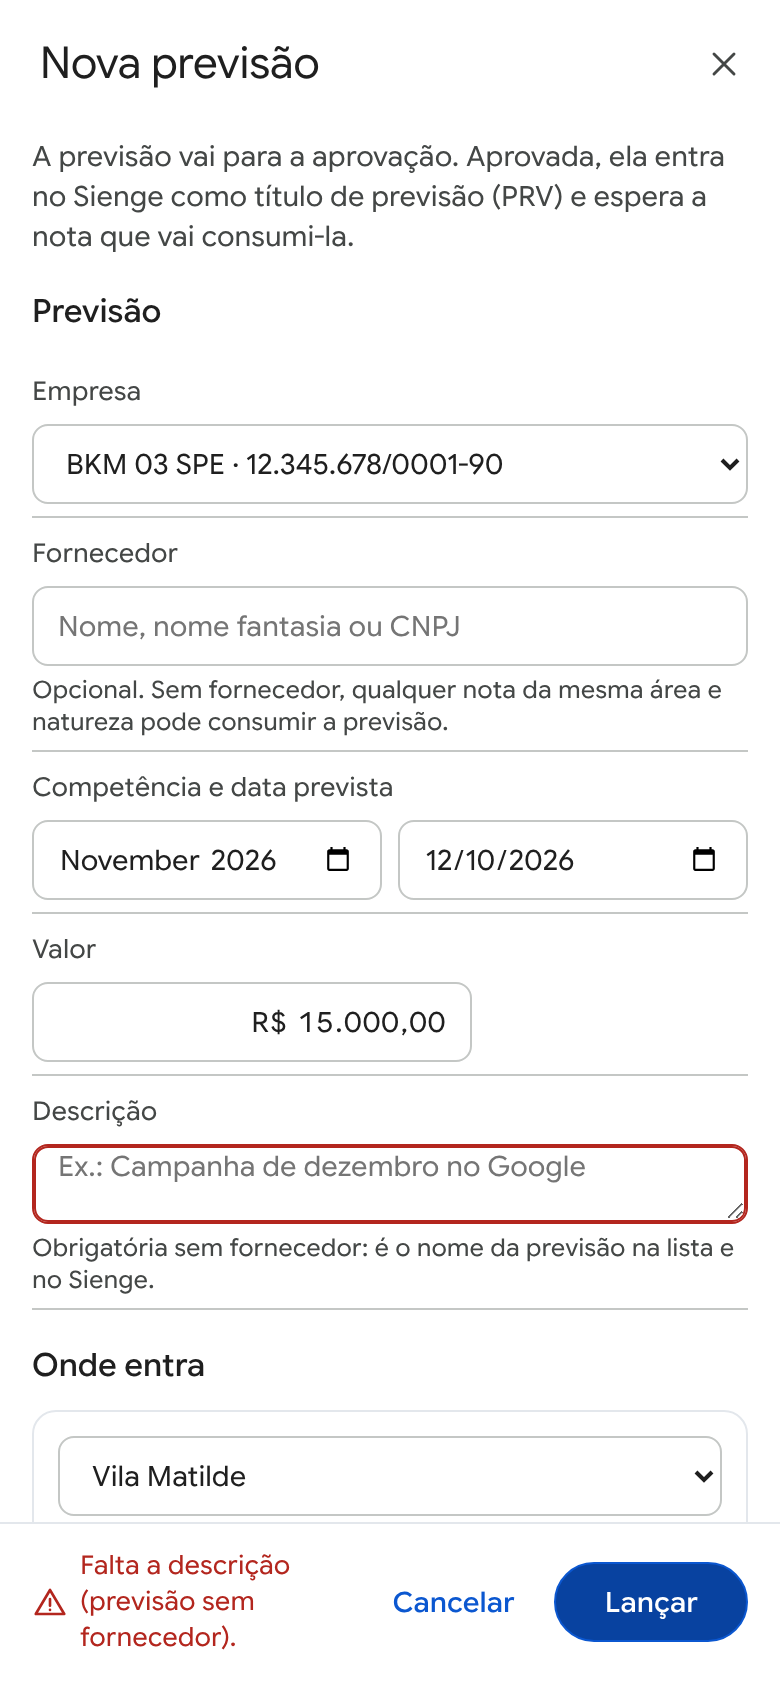
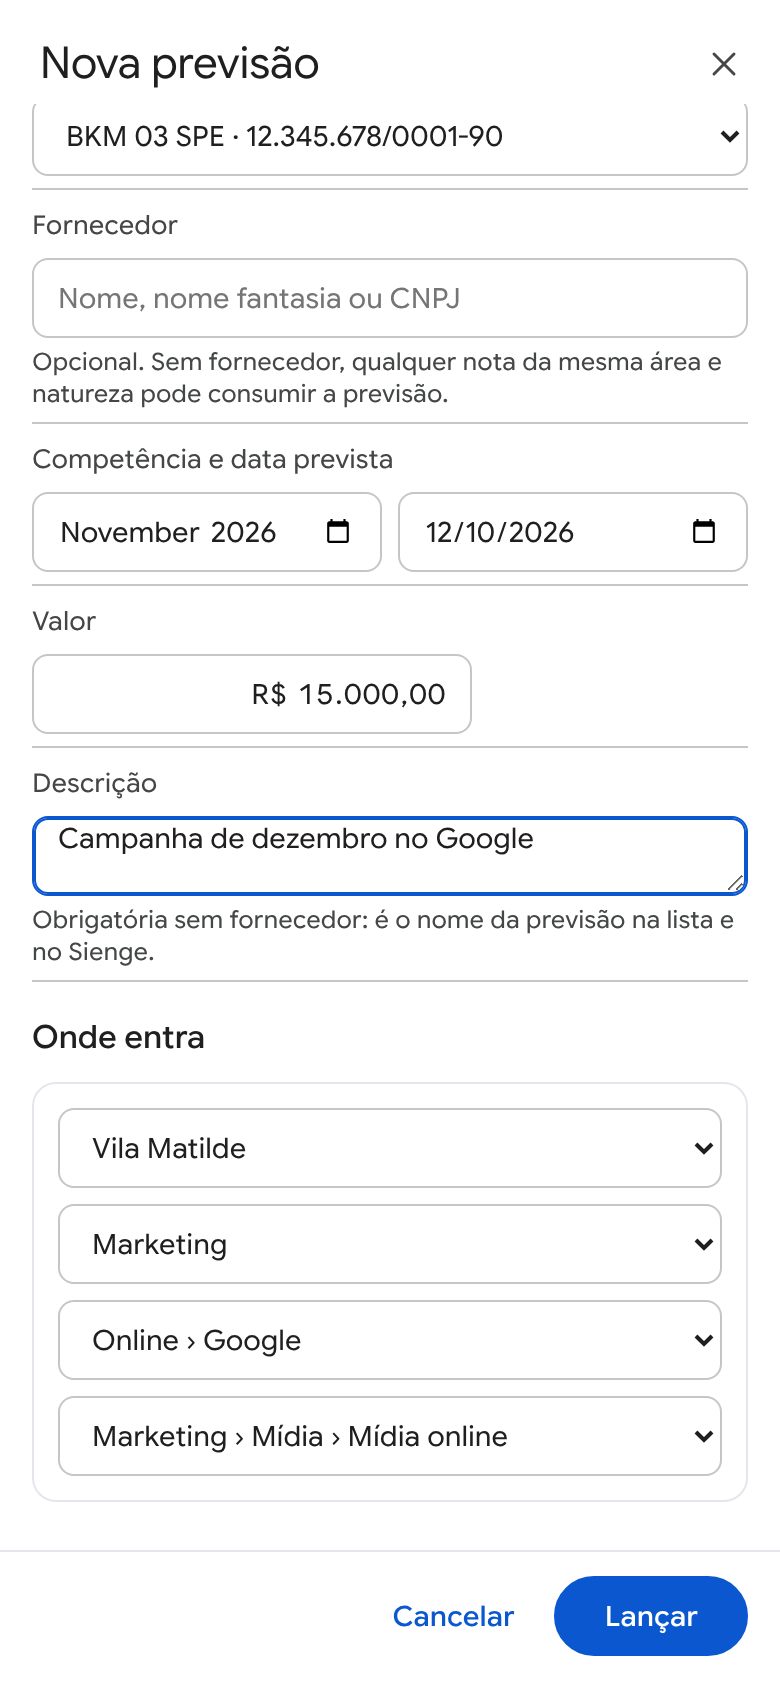
Opções de lançamento pela liberação de quem lança; onde entra sempre à vista na Nova previsão
api.lancamento_opcoes só traz núcleos, centros e divisões em que a pessoa
lança (erp.lanco); vale para Lançar título, Nova conta e Nova previsão.

Claude-Session: https://claude.ai/code/session_01KV2LwSMJajh5KEZr3FLLjq

diff --git a/apps/web/src/pages/NovaPrevisao.tsx b/apps/web/src/pages/NovaPrevisao.tsx
@@ -11,6 +11,8 @@ import { mensagemErro, rpc } from '../lib/supabase';
 import { BuscaFornecedor, Campo, LinhaRateio, divisoesDe, juntar, novaLinha, type Linha } from './Lancar';
 import type { FornecedorBusca, NaturezaLancavel, OpcoesLancamento } from '../lib/tipos';
 
+const SEM_EMPRESA: OpcoesLancamento['empresas'][number] = { id: '', nome: '', razao_social: '', documento: null, nucleos: [] };
+
 export function NovaPrevisao({ fechar, lancada }: { fechar: () => void; lancada: (id: string) => void }) {
   const qc = useQueryClient();
   const op = useQuery({ queryKey: ['lancamento_opcoes'], queryFn: () => rpc<OpcoesLancamento | null>('lancamento_opcoes') });
@@ -28,7 +30,7 @@ export function NovaPrevisao({ fechar, lancada }: { fechar: () => void; lancada:
   useEffect(() => { if (o && !empresa && o.empresas.length === 1) setEmpresa(o.empresas[0].id); }, [o, empresa]);
   const valor = lerReais(valorTxt);
   // a mesma consulta da linha (fica no cache): diz se a natureza escolhida é a restrita do PJ
-  const divs = divisoesDe(o, linha.centro);
+  const divs = divisoesDe(o, linha.centro, emp?.nucleos.find(n => n.id === linha.nucleo));
   const pronta = Boolean(linha.nucleo && linha.centro && (!divs.length || linha.divisao));
   const nq = useQuery({
     queryKey: ['naturezas_lancaveis', linha.nucleo, linha.centro, linha.divisao],
@@ -91,8 +93,11 @@ export function NovaPrevisao({ fechar, lancada }: { fechar: () => void; lancada:
         </div></section>
 
         <section className="lt-sec"><h3>Onde entra</h3>
-          {!emp ? <p className="sec peq">Escolha a empresa para ver os núcleos.</p>
-            : <LinhaRateio l={linha} o={o} emp={emp} varias={false} valor={valor} tentou={tentou} mudar={m => setLinha(l => ({ ...l, ...m }))} tirar={() => undefined} />}
+          {/* sempre à vista (Moises, 25/11/2026); sem empresa, os campos ficam vazios até ela ser escolhida. Núcleos, centros,
+              divisões e naturezas vêm só os liberados para quem lança (api.lancamento_opcoes e api.naturezas_lancaveis). */}
+          <LinhaRateio l={linha} o={o} emp={emp ?? SEM_EMPRESA} varias={false} valor={valor} tentou={tentou} mudar={m => setLinha(l => ({ ...l, ...m }))} tirar={() => undefined} />
+          {!emp ? <span className="sec peq">Escolha a empresa para ver os núcleos em que você lança.</span>
+            : !emp.nucleos.length && <span className="nt at">Você não tem núcleo liberado para lançar nesta empresa.</span>}
           {pj && <span className="nt at">Natureza PJ: a previsão fica só com o master e quem ele designou, é aprovada pelo master e não vai ao Sienge como PRV.</span>}
         </section>
       </>}

diff --git a/apps/web/src/pages/Lancar.tsx b/apps/web/src/pages/Lancar.tsx
@@ -375,7 +375,11 @@ export function LancarTitulo({ fechar, lancado }: { fechar: () => void; lancado:
   );
 }
 
-export const divisoesDe = (o: OpcoesLancamento | null | undefined, centro: string) => o?.centros.find(c => c.id === centro)?.divisoes ?? [];
+/** As divisões (último nível) do centro; com o núcleo, só as em que a pessoa lança nele (Moises, 25/11/2026). */
+export const divisoesDe = (o: OpcoesLancamento | null | undefined, centro: string, nucleo?: OpcoesLancamento['empresas'][number]['nucleos'][number]) => {
+  const ds = o?.centros.find(c => c.id === centro)?.divisoes ?? [];
+  return nucleo?.divisoes ? ds.filter(d => nucleo.divisoes!.includes(d.id)) : ds;
+};
 export const juntar = (l: string[]) => (l.length < 2 ? l.join('') : `${l.slice(0, -1).join(', ')} e ${l[l.length - 1]}`);
 
 export function LinhaRateio({ l, o, emp, varias, valor, tentou, mudar, tirar }: {
@@ -384,7 +388,7 @@ export function LinhaRateio({ l, o, emp, varias, valor, tentou, mudar, tirar }: 
 }) {
   const nucleo = emp.nucleos.find(n => n.id === l.nucleo);
   const centros = o.centros.filter(c => nucleo?.centros.includes(c.id));
-  const divs = divisoesDe(o, l.centro);
+  const divs = divisoesDe(o, l.centro, nucleo);
   const pronta = Boolean(l.nucleo && l.centro && (!divs.length || l.divisao));
   const nq = useQuery({
     queryKey: ['naturezas_lancaveis', l.nucleo, l.centro, l.divisao],
@@ -398,7 +402,7 @@ export function LinhaRateio({ l, o, emp, varias, valor, tentou, mudar, tirar }: 
   return (
     <div className="lt-rat">
       <div className="lt-grid">
-        <select className={`lt-in ${err(l.nucleo)}`} value={l.nucleo} onChange={e => mudar({ nucleo: e.target.value, centro: '', divisao: '', natureza: '' })} aria-label="Núcleo">
+        <select className={`lt-in ${err(l.nucleo)}`} value={l.nucleo} onChange={e => mudar({ nucleo: e.target.value, centro: '', divisao: '', natureza: '' })} disabled={!emp.nucleos.length} aria-label="Núcleo">
           <option value="">Núcleo</option>{emp.nucleos.map(n => <option key={n.id} value={n.id}>{n.nome}</option>)}
         </select>
         <select className={`lt-in ${err(l.centro)}`} value={l.centro} onChange={e => mudar({ centro: e.target.value, divisao: '', natureza: '' })} disabled={!nucleo} aria-label="Centro de custo">

diff --git a/apps/web/src/lib/tipos.ts b/apps/web/src/lib/tipos.ts
@@ -94,7 +94,7 @@ export interface Rastro {
 
 // Lançar título (migration 20261119000200_api_lancar_titulo.sql)
 export interface OpcoesLancamento {
-  empresas: { id: string; nome: string; razao_social: string; documento: string | null; nucleos: { id: string; nome: string; centros: string[] }[] }[];
+  empresas: { id: string; nome: string; razao_social: string; documento: string | null; nucleos: { id: string; nome: string; centros: string[]; /** últimos níveis em que a pessoa lança (api.lancamento_opcoes, 25/11/2026) */ divisoes?: string[] }[] }[];
   centros: { id: string; nome: string; divisoes: { id: string; caminho: string }[] }[];
   etiquetas: { id: string; nome: string }[];
 }

diff --git a/docs/tecnico/05-contas-a-pagar.md b/docs/tecnico/05-contas-a-pagar.md
@@ -69,7 +69,7 @@ Decisões do Moises (8, 14 e 17/nov/2026). Só a previsão aprovada vai ao Sieng
 
 **[Construído, 19/nov/2026] Tela Lançar título** (`apps/web/src/pages/Lancar.tsx`, `api.lancar_titulo`): empresa, fornecedor buscado no cadastro, tipo, número, série, emissão, competência e valor; rateio em uma ou mais linhas (núcleo, centro, último nível da divisão e as naturezas que o perfil libera ali); as previsões abertas que casam com o rateio, com o número PRV do Sienge, para marcar quais a nota consome; parcelas com a forma de pagamento de cada uma (iguais, ou com o valor de cada uma como está no documento: todas ou nenhuma, somando o valor; o leitor já preenche quando lê o valor de cada parcela ou boleto; 20/nov/2026) (PIX, com a chave do documento do fornecedor sugerida, ou boleto, e em qualquer dos dois o PIX copia e cola opcional, guardado só no nosso sistema e conferido pelo CRC, pelo valor da parcela e pelo recebedor (chave da parcela ou CPF/CNPJ do credor, ou o credor conferido no Asaas pela função conferir-pagamento, com até 1 dia e o valor da parcela; senão só com justificativa, que gera alerta); a linha do boleto também tem o beneficiário conferido pela mesma função (20/nov/2026): sem o credor conferido, só com justificativa (`boleto_excecao`), que gera o alerta `boleto_excecao`; e todo título com recebedor que não bate (chave de outra pessoa, PIX copia e cola ou boleto não conferidos) mostra o selo "Recebedor não confere" na lista de títulos, em Para aprovar e na gaveta, até ser pago; o leitor preenche o de cada boleto; 20/nov/2026); etiquetas. Ainda sem leitura do PDF ou do XML, sem retenção e sem caução. O contrato preso à nota precisa ser da mesma empresa e do mesmo fornecedor, estar ativo e ser visível para quem lança (gatilho `t_contrato_confere`, também em `titulos`).
 
-**[Construído, 25/nov/2026] Nova previsão** (`apps/web/src/pages/NovaPrevisao.tsx`, botão na página Previsões, `/previsoes?novo=1`; migration `20261125005000_api_lancar_previsao.sql`, `api.lancar_previsao`, SECURITY INVOKER, só `authenticated`): previsão manual com empresa, fornecedor opcional, uma linha (núcleo, centro, último nível da divisão, natureza), competência, data prevista, valor (> 0, 2 casas) e descrição (obrigatória sem fornecedor; até 500). Grava em `erp.previsoes` com `origem = 'manual'` pelo RLS (`erp.lanco`) e pelos gatilhos de sempre (classificação, divisão, autor, pessoa PJ, alçada). Natureza restrita: só master e designados lançam, alçada só a vaga PJ e não vira PRV. Pedido do Moises, 25/nov/2026.
+**[Construído, 25/nov/2026] Nova previsão** (`apps/web/src/pages/NovaPrevisao.tsx`, botão na página Previsões, `/previsoes?novo=1`; migration `20261125005000_api_lancar_previsao.sql`, `api.lancar_previsao`, SECURITY INVOKER, só `authenticated`): previsão manual com empresa, fornecedor opcional, uma linha (núcleo, centro, último nível da divisão, natureza), competência, data prevista, valor (> 0, 2 casas) e descrição (obrigatória sem fornecedor; até 500). Grava em `erp.previsoes` com `origem = 'manual'` pelo RLS (`erp.lanco`) e pelos gatilhos de sempre (classificação, divisão, autor, pessoa PJ, alçada). Natureza restrita: só master e designados lançam, alçada só a vaga PJ e não vira PRV. Pedido do Moises, 25/nov/2026. **Opções pela liberação [Construído, 25/nov/2026]** (migration `20261125005100_api_opcoes_liberadas.sql`; Moises, 25/nov: núcleos, centros e naturezas filtrados pela liberação de quem lança): `api.lancamento_opcoes` só traz os núcleos e centros em que `erp.lanco(núcleo, centro, null, eu, divisão)` vale (no centro ou em alguma divisão de último nível), com a lista `divisoes` liberada em cada núcleo; empresa sem núcleo liberado sai. Vale para Lançar título, Nova conta e Nova previsão (`divisoesDe` filtra pela lista do núcleo). A natureza já vinha filtrada por `api.naturezas_lancaveis`.
 
 **[Construído, 24/nov/2026] Fornecedor pelo cadastro de credores do Sienge** (`servicos/sienge-credores`, `erp.sienge_importar_credores`): todo dia às 3h a função traz a lista inteira de credores do Sienge (825 em 24/11/2026, 5 chamadas) para `erp.pessoas`, ligando pelo código do Sienge em `codigos_externos` (só cria e liga; não muda nada que já existe). O credor sem classificação entra escondido (só o master e quem vê o PJ), até o master ou a triagem o classificarem como comum (decisão do Moises, 24/11/2026). Na tela Lançar, quando o leitor acha o CPF/CNPJ do emitente e o ERP não tem a pessoa, a tela pergunta ao Sienge só por aquele documento; achado, o credor entra no ERP e o fornecedor se preenche (quem já escolheu à mão fica com a escolha), com o aviso "veio do cadastro de credores do Sienge". Sem achar (ou sem poder ver a pessoa), o aviso diz que não está no cadastro nem depois da consulta. A função responde sempre {ok}, sem dizer se achou, e a tela busca de novo no ERP pelo RLS (revisão do #139); a busca tem teto global de uma por segundo (`sienge.ritmo`).
 
